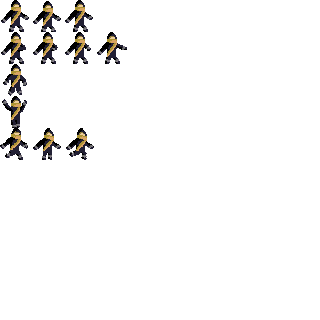
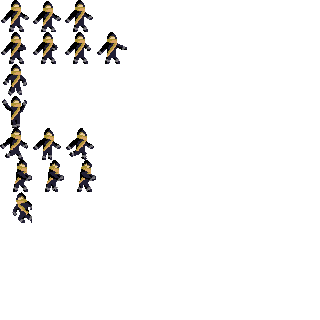
Make animated humanoid class

Changed region(s): [[0.0312, 0.5, 0.125, 0.7188], [0.125, 0.5, 0.2188, 0.5938], [0.2188, 0.5, 0.3125, 0.5938]]

diff --git a/entities/enemies/base_enemy.py b/entities/enemies/base_enemy.py
@@ -1,33 +1,29 @@
 import pygame as pg
 import math
 
-from ..physics_entity import PhysicsEntity
+from ..animated_humanoid import AnimatedHumanoid
 import config
 import utils
 import shared_data
 
 
-class BaseEnemy(PhysicsEntity):
-    def __init__(self, pos, *args, **kwargs):
+class BaseEnemy(AnimatedHumanoid):
+    def __init__(self, pos, size):
         sheet_parser = utils.SpriteSheetParser(
             __file__, 'assets/enemy_sheet.png')
-        size = (64, 64)
         self.image = pg.Surface(size).convert_alpha()
-        super().__init__(self.image.get_rect(topleft=pos), *args, **kwargs)
+
+        self.animations = {'idle': sheet_parser.load_row((0, 0), 3, size),
+                           'attack': sheet_parser.load_row((0, 1), 4, size),
+                           'jump': sheet_parser.load_row((0, 2), 1, size),
+                           'fall': sheet_parser.load_row((0, 3), 1, size),
+                           'run': sheet_parser.load_row((0, 4), 3, size),
+                           'push': sheet_parser.load_row((0, 5), 3, size),
+                           'wall_slide': sheet_parser.load_row((0, 6), 1, size)}
+
+        super().__init__(self.image.get_rect(topleft=pos), self.animations)
 
         self.speed = config.ENEMY_SPEED
-
-        self.idle_animation = sheet_parser.load_row((0, 0), 3, size)
-        self.attack_animation = sheet_parser.load_row((0, 1), 4, size)
-        # Attack speed is directly tied to the attack animation speed
-        self.is_attacking = False
-        self.jump_animation = sheet_parser.load_row((0, 2), 1, size)
-        self.fall_animation = sheet_parser.load_row((0, 3), 1, size)
-        self.run_animation = sheet_parser.load_row((0, 4), 3, size)
-        self.wall_jump_animation = sheet_parser.load_row((0, 5), 1, size)
-        self.animation = []
-        self.animation_index = 0
-        self.animation_speed = config.PLAYER_ANIMATION_SPEED
 
     def update(self, tiles, player_pos):
         self.dir.x = 0
@@ -42,52 +38,3 @@ class BaseEnemy(PhysicsEntity):
 
         self.move(tiles)
         self.animate()
-
-    def animate(self):
-        self.animation_speed = config.PLAYER_ANIMATION_SPEED
-
-        last_frame_animation = self.animation
-
-        # Attacking
-        if self.is_attacking:
-            self.animation = self.attack_animation
-            self.animation_speed = config.PLAYER_ATTACK_SPEED
-        # Running
-        elif self.is_grounded and self.dir.x != 0:
-            self.animation = self.run_animation
-        # Jumping
-        elif self.dir.y < 0:
-            if self.touching_wall:
-                self.animation = self.wall_jump_animation
-            else:
-                self.animation = self.jump_animation
-        # Touching wall
-        elif self.touching_wall:
-            if self.is_grounded:
-                pass
-            else:
-                pass
-        # Falling
-        elif self.dir.y >= 0.5 and not self.is_grounded:
-            self.animation = self.fall_animation
-        # Idle
-        else:
-            self.animation = self.idle_animation
-
-        # Restart animation  when animation state changes
-        # This is required since attack speed is tied to the animation,
-        # animation starting on index > 0 caused the attack cooldown to reset early
-        if last_frame_animation != self.animation:
-            self.animation_index = 0
-
-        if self.animation_index >= len(self.animation):
-            self.animation_index = 0
-            # End attack animation after it played once
-            if self.is_attacking:
-                self.is_attacking = False
-
-        # flip_x = !facing_right, flip image only when not facing right
-        self.image = pg.transform.flip(
-            self.animation[math.floor(self.animation_index)], not self.facing_right, False)
-
-        self.animation_index += self.animation_speed * shared_data.delta_time

diff --git a/entities/player/player.py b/entities/player/player.py
@@ -6,31 +6,25 @@ import config
 from utils import debug
 import utils
 import shared_data
-from ..physics_entity import PhysicsEntity
+from ..animated_humanoid import AnimatedHumanoid
 
 
-class Player(PhysicsEntity):
+class Player(AnimatedHumanoid):
     def __init__(self, pos, size):
         sheet_parser = utils.SpriteSheetParser(
             __file__, 'assets/player_sheet.png')
         self.image = pg.Surface(size).convert_alpha()
 
-        super().__init__(self.image.get_rect(topleft=pos))
+        self.animations = {'idle': sheet_parser.load_row((0, 0), 3, size),
+                           'attack': sheet_parser.load_row((0, 1), 4, size),
+                           'jump': sheet_parser.load_row((0, 2), 1, size),
+                           'fall': sheet_parser.load_row((0, 3), 1, size),
+                           'run': sheet_parser.load_row((0, 4), 3, size),
+                           'push': sheet_parser.load_row((0, 5), 3, size),
+                           'wall_slide': sheet_parser.load_row((0, 6), 1, size)}
 
-        self.idle_animation = sheet_parser.load_row((0, 0), 3, size)
-        self.attack_animation = sheet_parser.load_row((0, 1), 4, size)
-        # Attack speed is directly tied to the attack animation speed
-        self.is_attacking = False
-        self.jump_animation = sheet_parser.load_row((0, 2), 1, size)
-        self.fall_animation = sheet_parser.load_row((0, 3), 1, size)
-        self.run_animation = sheet_parser.load_row((0, 4), 3, size)
-        self.push_animation = sheet_parser.load_row((0, 5), 3, size)
-        self.wall_jump_animation = sheet_parser.load_row((0, 6), 1, size)
-        self.animation = []
-        self.animation_index = 0
-        self.animation_speed = config.PLAYER_ANIMATION_SPEED
+        super().__init__(self.image.get_rect(topleft=pos), self.animations)
 
-        self.jumped_from_wall = False
         self.crosshair = pg.sprite.GroupSingle(Crosshair())
 
     def debug(self):
@@ -95,51 +89,3 @@ class Player(PhysicsEntity):
             return
 
         super().jump()
-
-    def animate(self):
-        self.animation_speed = config.PLAYER_ANIMATION_SPEED
-
-        last_frame_animation = self.animation
-
-        # Attacking
-        if self.is_attacking:
-            self.animation = self.attack_animation
-            self.animation_speed = config.PLAYER_ATTACK_SPEED
-        # Touching wall
-        elif self.touching_wall:
-            # Running against wall
-            if self.is_grounded:
-                self.animation = self.push_animation
-            # Wall jumping
-            else:
-                self.animation = self.wall_jump_animation
-        # Running
-        elif self.is_grounded and self.dir.x != 0:
-            self.animation = self.run_animation
-        # Jumping
-        elif self.dir.y < 0:
-            self.animation = self.jump_animation
-        # Falling
-        elif self.dir.y >= 0.5 and not self.is_grounded:
-            self.animation = self.fall_animation
-        # Idle
-        else:
-            self.animation = self.idle_animation
-
-        # Restart animation  when animation state changes
-        # This is required since attack speed is tied to the animation,
-        # animation starting on index > 0 caused the attack cooldown to reset early
-        if last_frame_animation != self.animation:
-            self.animation_index = 0
-
-        if self.animation_index >= len(self.animation):
-            self.animation_index = 0
-            # End attack animation after it played once
-            if self.is_attacking:
-                self.is_attacking = False
-
-        # flip_x = !facing_right, flip image only when not facing right
-        self.image = pg.transform.flip(
-            self.animation[math.floor(self.animation_index)], not self.facing_right, False)
-
-        self.animation_index += self.animation_speed * shared_data.delta_time

diff --git a/entities/animated_humanoid.py b/entities/animated_humanoid.py
@@ -1,0 +1,79 @@
+import pygame as pg
+import math
+
+from .base_humanoid import BaseHumanoid
+import shared_data
+import config
+
+
+class AnimatedHumanoid(BaseHumanoid):
+    def __init__(self, rect, animations):
+        super().__init__(rect)
+
+        self.idle_animation = animations['idle']
+        self.attack_animation = animations['attack']
+        self.jump_animation = animations['jump']
+        self.fall_animation = animations['fall']
+        self.run_animation = animations['run']
+        self.push_animation = animations['push']
+        self.wall_slide_animation = animations['wall_slide']
+
+        self.ANIMATION_SPEED = config.ANIMATION_SPEED
+        self.ATTACK_SPEED = config.ATTACK_SPEED
+
+        # Attack speed is directly tied to the attack animation speed
+        self.is_attacking = False
+        self.jumped_from_wall = False
+
+        self.animation = []
+        self.animation_index = 0
+
+    def animate(self):
+        self.animation_speed = self.ANIMATION_SPEED
+
+        last_frame_animation = self.animation
+
+        # Attacking
+        if self.is_attacking:
+            self.animation = self.attack_animation
+            self.animation_speed = self.ATTACK_SPEED
+        # Touching wall
+        elif self.touching_wall:
+            # Running against wall
+            if self.is_grounded:
+                self.animation = self.push_animation
+            # Wall sliding
+            else:
+                self.animation = self.wall_slide_animation
+                # Slow down gravity when player is wallsliding
+                self.dir.y = min(self.dir.y, 0.5)
+        # Running
+        elif self.is_grounded and self.dir.x != 0:
+            self.animation = self.run_animation
+        # Jumping
+        elif self.dir.y < 0:
+            self.animation = self.jump_animation
+        # Falling
+        elif self.dir.y >= 0.5 and not self.is_grounded:
+            self.animation = self.fall_animation
+        # Idle
+        else:
+            self.animation = self.idle_animation
+
+        # Restart animation  when animation state changes
+        # This is required since attack speed is tied to the animation,
+        # animation starting on index > 0 caused the attack cooldown to reset early
+        if last_frame_animation != self.animation:
+            self.animation_index = 0
+
+        if self.animation_index >= len(self.animation):
+            self.animation_index = 0
+            # End attack animation after it played once
+            if self.is_attacking:
+                self.is_attacking = False
+
+        # flip_x = !facing_right, flip image only when not facing right
+        self.image = pg.transform.flip(
+            self.animation[math.floor(self.animation_index)], not self.facing_right, False)
+
+        self.animation_index += self.animation_speed * shared_data.delta_time

diff --git a/entities/base_humanoid.py b/entities/base_humanoid.py
@@ -4,9 +4,9 @@ import config
 import shared_data
 
 
-class PhysicsEntity(pg.sprite.Sprite):
-    def __init__(self, rect, *args, **kwargs):
-        super().__init__(*args, **kwargs)
+class BaseHumanoid(pg.sprite.Sprite):
+    def __init__(self, rect):
+        super().__init__()
         self.pos = pg.math.Vector2(rect.x, rect.y)
         self.rect = rect
         self.dir = pg.math.Vector2(0, 0)
@@ -33,13 +33,14 @@ class PhysicsEntity(pg.sprite.Sprite):
                    self.speed * shared_data.delta_time)
         self.collide_horizontal(tiles)
 
-        self.apply_gravity()
         # Jump force and gravity are directly added to the y dir
-        y_speed = self.dir.y * shared_data.delta_time
+        self.apply_gravity()
+
         # FIXME: If delta time is large enough it is possible for y to be bigger than the tile height
         # making the player phase through it
         # 32(tile height) - 1 (added in collision check)
-        self.set_y(self.pos.y + y_speed if y_speed <= 31 else self.pos.y + 31)
+        self.set_y(min(self.pos.y + self.dir.y *
+                   shared_data.delta_time, self.pos.y + 31))
         self.collide_vertical(tiles)
 
         # If dir.x = 0 keep the last direction

diff --git a/config.py b/config.py
@@ -3,15 +3,17 @@ SCREEN_HEIGHT = 960
 
 X_WORLD_SHIFT_SPEED = 0.5
 
-# Base Physics Entity
+# Base Humanoid
 SPEED = 0.5
 GRAVITY = 0.005
 JUMP_FORCE = 1.4
 
+# Animated Humanoid
+ANIMATION_SPEED = 0.008
+ATTACK_SPEED = 0.017
+
 # Player
 PLAYER_JUMP_BUFFER = 160
-PLAYER_ANIMATION_SPEED = 0.008
-PLAYER_ATTACK_SPEED = 0.017
 
 # Player projectile
 PROJECTILE_SPEED = 1

diff --git a/level/level.py b/level/level.py
@@ -25,7 +25,7 @@ class Level:
                         self.player.add(
                             Player((col_index * 32, row_index*32), (64, 64)))
 
-        # self.enemies.add(BaseEnemy((50, 0)))
+        self.enemies.add(BaseEnemy((50, 0), (64, 64)))
 
     def update(self):
         self.tiles.draw(self.surface)

diff --git a/TODO.md b/TODO.md
@@ -1,11 +1,18 @@
-- [ ] Add enemy animation
-- [ ] Make base class with animations
-- [ ] When hitting head and moving to the side at the exact same time the player teleports > confused horizontal and vertical collisions
-- [ ] Custom collisions for entity and tiles
+# Todo:
+
+- [ ] Fix crosshair accuracy
+- [x] Add enemy animation
+- [x] Make base class with animations
 - [x] Can't jump after touching wall for a few seconds
+
+# Bugs:
+
+- [ ] When hitting head and moving to the side at the exact same time the player teleports > confused horizontal and vertical collisions
 
 # Back burner:
 
+- [ ] Custom collisions for entity and tiles
+- [ ] Enemy follow, jump ai
 - [ ] Camera scroll
 - [ ] Level editor
 - [ ] Fix projectile indicator offset
